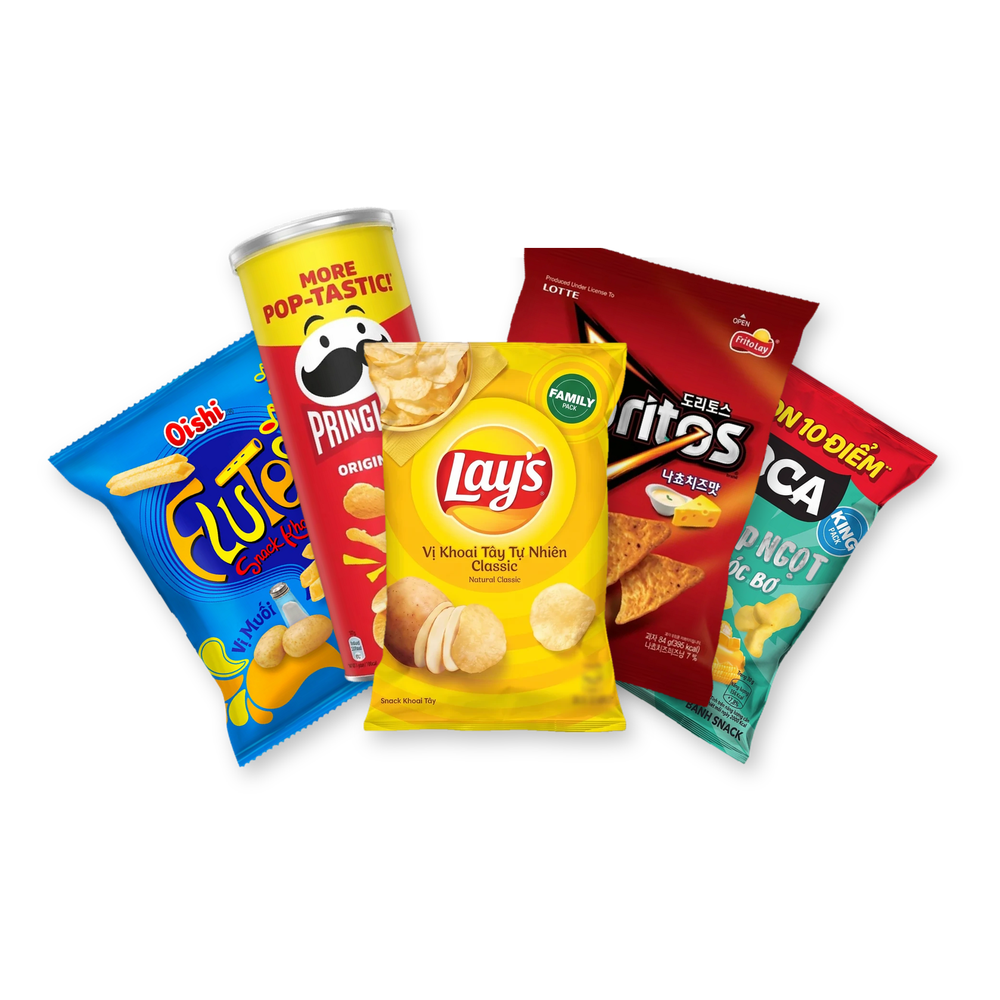
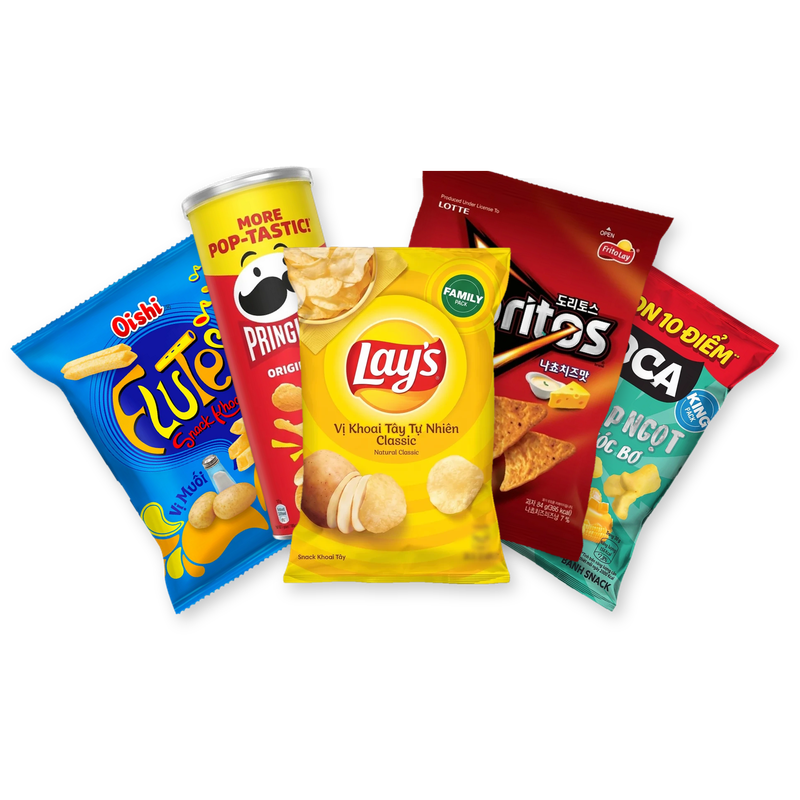
tools: add category_image.py (fan bouquet of product cut-outs, transparent)
Claude-Session: https://claude.ai/code/session_01DMTF5GjS3P9om8RxKa1WuX

Changed region(s): [[0.0, 0.1875, 0.9688, 0.7812]]

diff --git a/tools/category_image.py b/tools/category_image.py
@@ -1,0 +1,70 @@
+#!/usr/bin/env python3
+"""Category image: fan bouquet of 3-5 product cut-outs, transparent background.
+
+  python3 tools/category_image.py <out-name> <heroId> <id2> <id3> [<id4> <id5>]   (run from tram8-resources)
+
+First id = hero (centre, front). Others go out in pairs: 2,3 beside the hero, 4,5 outermost.
+Writes reports/danh-muc/<out-name>.webp (lossless alpha) + .png, and a check sheet
+(dark + pink + 56px/28px sizes) at work/<out-name>-check.jpg — open it and look.
+"""
+import sys, glob, os, subprocess
+from PIL import Image, ImageFilter
+HERE = os.path.dirname(os.path.abspath(__file__))
+CACHE = os.path.join("work", "category-cutouts")
+name, ids = sys.argv[1], sys.argv[2:]
+os.makedirs(CACHE, exist_ok=True)
+assert 3 <= len(ids) <= 5, "need 3-5 product ids"
+
+def src(pid):
+    p = glob.glob(f"categories/*/{pid}-*/image.webp")
+    if not p: sys.exit(f"no image.webp for {pid}")
+    return p[0]
+
+def cutout(pid):
+    out = os.path.join(CACHE, f"{pid}.png")
+    if not os.path.exists(out):
+        code = ("import sys\nfrom rembg import remove,new_session\nfrom PIL import Image,ImageFilter\n"
+                "im=Image.open(sys.argv[1]).convert('RGB');o=remove(im,session=new_session('isnet-general-use'))\n"
+                "a=o.getchannel('A').point(lambda v:255 if v>128 else 0).filter(ImageFilter.MinFilter(5)).filter(ImageFilter.GaussianBlur(1))\n"
+                "o.putalpha(a);o.crop(o.getbbox()).save(sys.argv[2])\n")
+        subprocess.run([sys.executable, "-I", "-c", code, src(pid), out], check=True)
+    return Image.open(out)
+
+def fit(im, h):  # scale by height, but cap width so wide items don't dominate
+    r = h / im.height
+    if im.width * r > h * 0.95: r = h * 0.95 / im.width
+    return im.resize((max(1, round(im.width * r)), max(1, round(im.height * r))), Image.LANCZOS)
+
+n = len(ids)
+# (height, angle, dx, dy) per slot: hero, inner L/R, outer L/R
+slots = {
+    "hero": (660, 0, 0, 50),
+    "inL": (720, -15, -115, -55), "inR": (700, 15, 115, -55),
+    "outL": (620, -32, -215, -20), "outR": (620, 32, 215, -20),
+}
+order = ["hero", "inL", "inR", "outL", "outR"][:n]
+assign = dict(zip(order, ids))
+draw = [s for s in ["outL", "outR", "inL", "inR", "hero"] if s in assign]  # back -> front
+C = 2200; canvas = Image.new("RGBA", (C, C), (0, 0, 0, 0)); pivot = (1100, 1600)
+for s in draw:
+    h, ang, dx, dy = slots[s]
+    im = fit(cutout(assign[s]), h)
+    pad = Image.new("RGBA", (im.width * 3, im.height * 2), (0, 0, 0, 0)); bx, by = pad.width // 2, pad.height // 2
+    pad.alpha_composite(im, (bx - im.width // 2, by - im.height))
+    rot = pad.rotate(-ang, resample=Image.BICUBIC, center=(bx, by))
+    x, y = pivot[0] + dx - bx, pivot[1] + dy - by
+    sh = Image.new("RGBA", rot.size, (0, 0, 0, 0)); sh.putalpha(rot.getchannel("A").point(lambda v: int(v * 0.22)))
+    canvas.alpha_composite(sh.filter(ImageFilter.GaussianBlur(14)), (x + 10, y + 14)); canvas.alpha_composite(rot, (x, y))
+canvas = canvas.crop(canvas.getbbox())
+side = max(canvas.size) + 8
+sq = Image.new("RGBA", (side, side), (0, 0, 0, 0)); sq.alpha_composite(canvas, ((side - canvas.width) // 2, (side - canvas.height) // 2))
+sq = sq.resize((800, 800), Image.LANCZOS)
+os.makedirs("reports/danh-muc", exist_ok=True)
+sq.save(f"reports/danh-muc/{name}.png"); sq.save(f"reports/danh-muc/{name}.webp", lossless=True)
+sheet = Image.new("RGB", (800 * 2 + 200, 800), (255, 255, 255))
+for i, bg in enumerate([(40, 40, 40), (252, 232, 230)]):
+    b = Image.new("RGBA", (800, 800), bg + (255,)); b.alpha_composite(sq); sheet.paste(b.convert("RGB"), (i * 800, 0))
+for j, px in enumerate([112, 56]):  # 2x of 56px tile and 28px menu icon
+    b = Image.new("RGBA", (px, px), (252, 232, 230, 255)); b.alpha_composite(sq.resize((px, px), Image.LANCZOS)); sheet.paste(b.convert("RGB"), (1640, 40 + j * 160))
+sheet.save(os.path.join("work", f"{name}-check.jpg"), quality=88)
+print("ok", name, assign)
